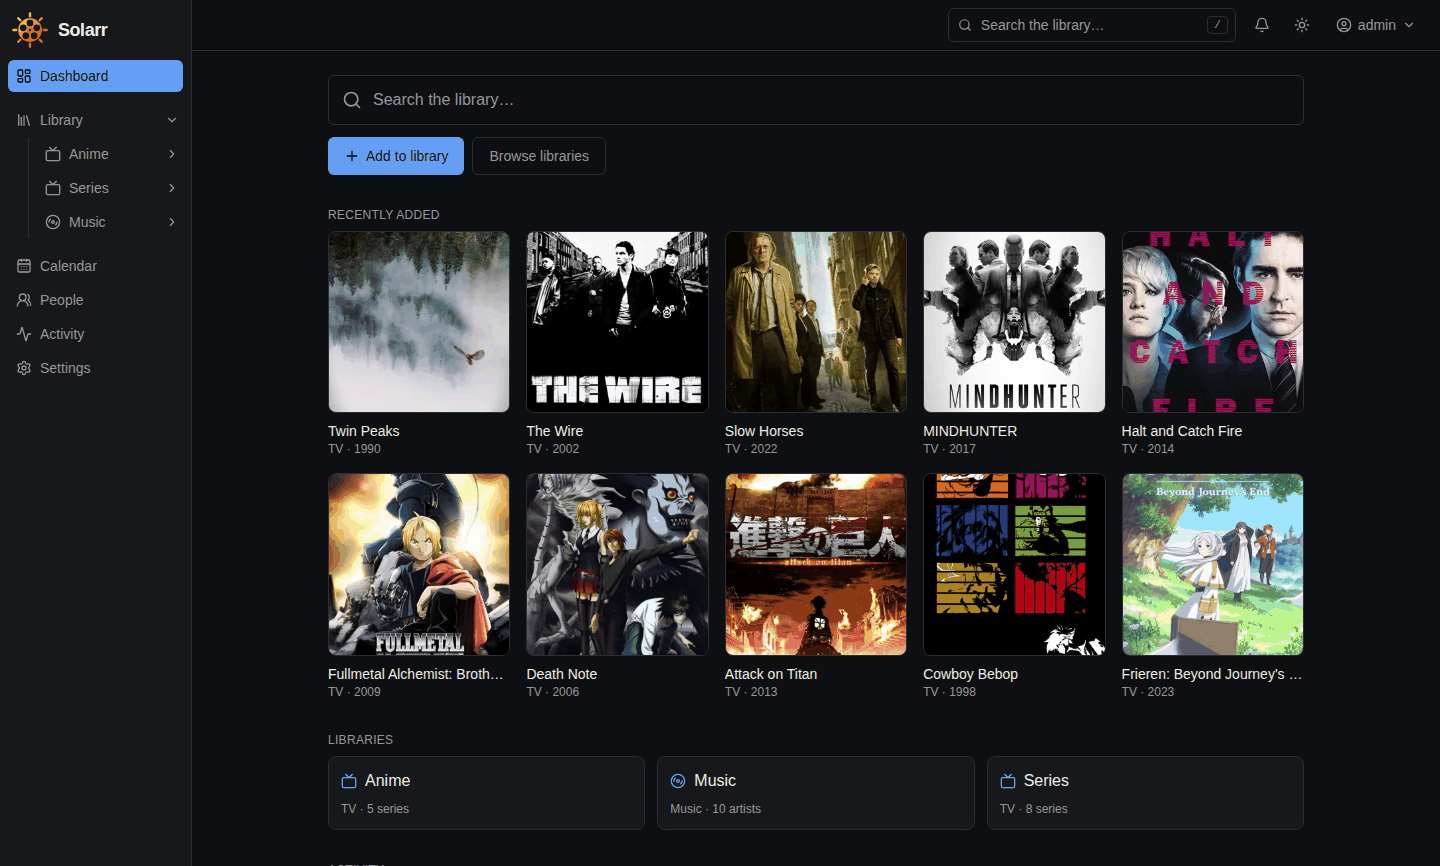
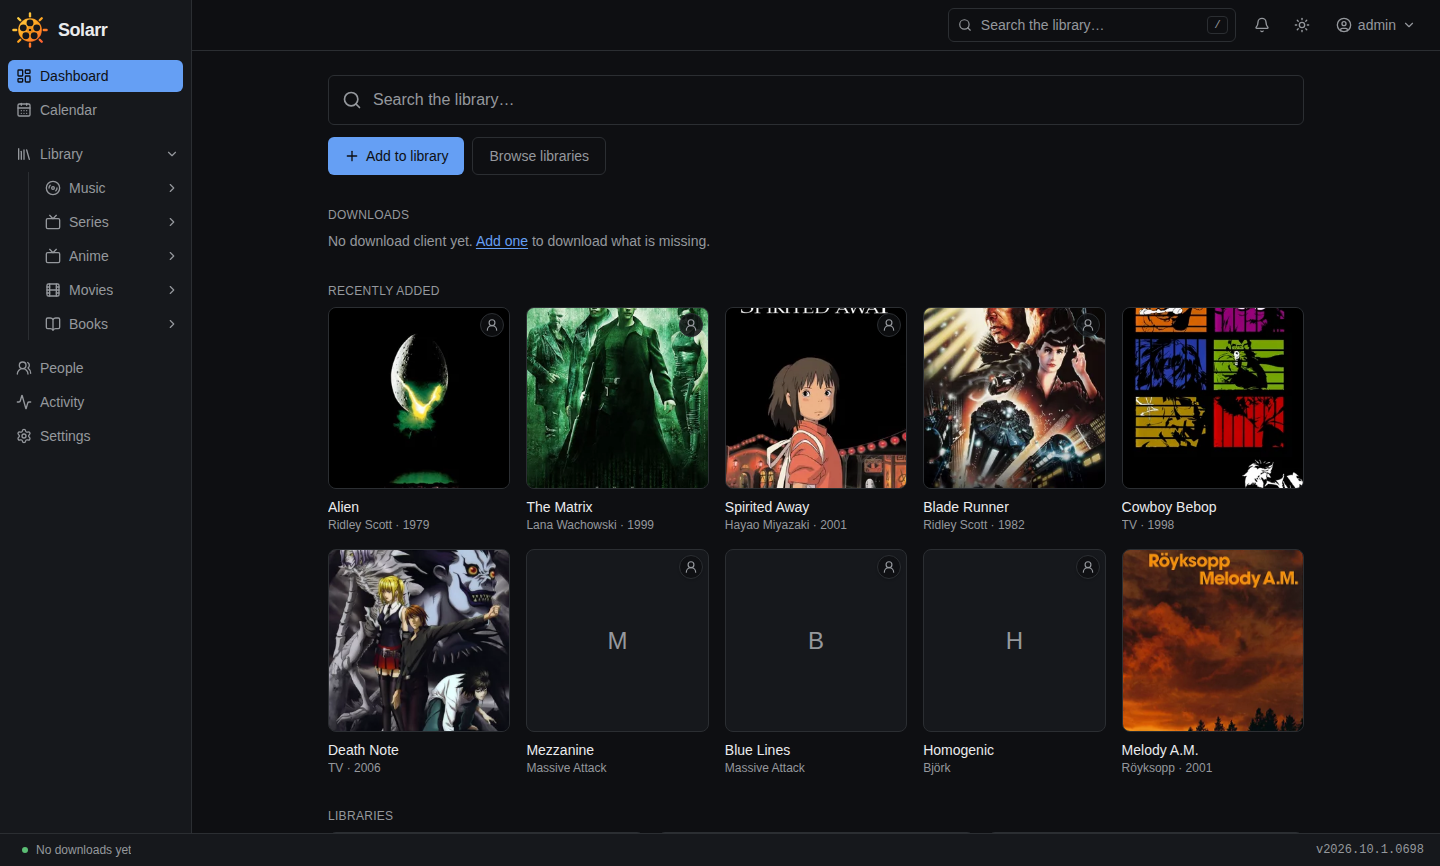
README: opening summary, what is new since the first release, fresh screenshots
An opening paragraph on speed and usability (4 ms pages, 17 ms search, priority
queue ahead of bulk work). A new-since-2026.10.001.515 section covers books and
audiobooks, import lists, *Arr import by choice, library merge, the player, the
similar-videos report, more clients, per-library music providers, hardening.
The feature table and the not-there-yet list no longer say books come later.
Screenshots re-shot from a throwaway demo instance with placeholder files (music,
series, anime, films, books); artist, calendar, statistics and import preview are
kept from the earlier set.

diff --git a/README.md b/README.md
@@ -6,7 +6,18 @@
 One self-hosted app that finds out what you have, what's missing and what could be better, then goes and gets it.<br>
 Music, TV, anime, movies, books and audiobooks in one engine: a successor to Lidarr, Sonarr, Radarr and Readarr, not a port of them.</p>
 
-<p align="center"><img src="documentation/screenshots/dashboard.png" alt="The dashboard: recently added series and the libraries" width="900"></p>
+<p align="center"><img src="documentation/screenshots/dashboard.png" alt="The dashboard: recently added films, series and albums, and the libraries" width="900"></p>
+
+---
+
+**Solarr** is a Go-native media management, discovery and acquisition platform, built for speed and for
+people who would rather not read a manual. One static Go binary and four small SQLite databases keep the web
+interface fast whatever the size of the library: a filtered page of a 500,000-file library comes back in
+**under 4 ms** and search-as-you-type in **17 ms** (worst case, measured; [benchmarks](documentation/benchmarks.md)).
+Every database has one writer behind a priority queue in WAL mode, so **your click jumps ahead of a bulk scan**
+and the browser never stalls while Solarr works. Your views, filters and sorts are remembered, settings are shown
+at your own level (normal, advanced or expert), every decision keeps its reasons on the page, and anything
+irreversible is **previewed first and undone in one click**.
 
 ---
 
@@ -41,18 +52,63 @@ you expected and what happened (logs help: *Settings → Logs*). Every report ma
 - **Private by default.** No telemetry, no accounts, no phone-home. It talks to what you configure.
 - **One small container.** A Go binary with SQLite inside. No database server, no message broker.
 
+## New since the first release
+
+Added after 2026.10.001.515 (2026-10-25), newest areas first. Details are in the
+[documentation](documentation/README.md); the commit log has the rest.
+
+- **Books and audiobooks are real libraries.** Metadata from Open Library, Google Books, Hardcover, FantLab, iTunes
+  and Audible (with Audnexus), covers, one collection per series and the books a series still lacks, **Monitor** on
+  a whole series, **follow an author** as Readarr does, and a **Narrators** level, filter and column for
+  audiobooks. Ebooks are never handed to ffprobe.
+- **An adult library type** (optional), over the stash-box providers, ThePornDB and Whisparr's metadata: scenes and
+  films, performers, and a StashDB favourites import list. See [adult](documentation/adult.md).
+- **Import lists for TV.** An AniList season or user list, a TMDB list or TMDB's trending and popular shows add
+  series for you, **previewed before you enable them**, with *Run now* and a periodic sync.
+  See [import lists](documentation/import-lists.md).
+- **Import from the \*Arrs by choice.** A preview and mapping step first, then pick what to bring across; Whisparr
+  is a source too, and monitoring can be **sent back** to the \*Arr. Still never changes your \*Arr otherwise.
+- **Merge one library into another** of the same media type, previewed like a move.
+- **A preview player in the browser.** A bar, a corner window or full screen, source bitrate shown, a quality menu
+  (original, 1080p, 720p, 480p) and **GPU transcoding** for files a browser cannot play.
+  See [media player](documentation/media-player.md).
+- **Similar videos report.** Perceptual hashes of the frames (plus duration) find the same video in two files;
+  keep one and **link or recycle the others**, offered only when every file names the same episode.
+- **More download clients and indexers.** Every kind of client Lidarr and Sonarr offer on one shared base,
+  **Soulseek through slskd** as a source for any media type, and **Prowlarr's catalog** to choose indexers from.
+- **Per-library music provider order**, like TV and movies already had, and **label, network and organisation
+  logos** from Wikidata and Skyhook.
+- **People and collections editable by hand**, a collection you can Monitor, and *Also known for* on a person
+  (an actor's albums, with *Add to Solarr*). A provider's collection you deleted stays deleted.
+- **TV details**: episode titles in the library's profile languages, *Episode Title Required* with a rename once
+  the title arrives, air moments on the calendar, and a franchise watch task.
+- **Cache and memory page** (*Settings → Cache*): library page cache size, database file sizes, cache use and hit
+  ratios, and a card to size the database memory.
+- **Statistics** count the files **below each library's cutoff**, even in libraries that never upgrade.
+- **Settings by environment variable**: config folder, port, root folders and API keys can be set per variable.
+- **Hardening.** The first-run claim race is closed, cross-site writes are refused, a session cookie is
+  `Secure` behind a trusted TLS proxy, 6to4 and IPv4-compatible addresses are judged by the IPv4 they carry,
+  symlinks in a download are never followed, a torrent whose name is a path never becomes an import path, and
+  a whole download folder is never imported as one download.
+- **Faster.** Bulk edit writes only what changed, album decisions are about 3x faster, release-name parses are
+  remembered, and the queue asks all download clients together, once for every polling page.
+
+---
+
 ## Screenshots
 
 | | |
 |---|---|
-| [![Album wall](documentation/screenshots/music-albums.png)](documentation/screenshots/music-albums.png) **Music library**: albums as a poster wall, with table and overview views, filters and bulk edit | [![Album page](documentation/screenshots/album.png)](documentation/screenshots/album.png) **An album**: tracks with the measured format and size of every file |
-| [![Artist page](documentation/screenshots/artist.png)](documentation/screenshots/artist.png) **An artist**: biography, aliases, the albums you have and the ones still missing | [![Series wall](documentation/screenshots/tv-series.png)](documentation/screenshots/tv-series.png) **TV library**: series with how much of each is on disk |
-| [![Series page](documentation/screenshots/tv-series-page.png)](documentation/screenshots/tv-series-page.png) **A series**: cast and crew, seasons, and per episode the file's resolution, codec and size | [![Series page, light](documentation/screenshots/tv-series-page-light.png)](documentation/screenshots/tv-series-page-light.png) **Light or dark**, following your system |
-| [![Import preview](documentation/screenshots/import-preview.png)](documentation/screenshots/import-preview.png) **Import preview**: an untagged two-album pack, both albums recognised from their tracklists | [![Calendar](documentation/screenshots/calendar.png)](documentation/screenshots/calendar.png) **Calendar**: what you have, what's wanted and out, and what isn't out yet |
-| [![Statistics](documentation/screenshots/statistics.png)](documentation/screenshots/statistics.png) **Insights**: completeness, the biggest albums, formats and growth | |
+| [![Album wall](documentation/screenshots/music-albums.png)](documentation/screenshots/music-albums.png) **Music library**: albums as a poster wall, with table and overview views, filters and bulk edit | [![Album page](documentation/screenshots/album.png)](documentation/screenshots/album.png) **An album**: tracks with the measured format and size of every file, and the ones still to come |
+| [![Series wall](documentation/screenshots/tv-series.png)](documentation/screenshots/tv-series.png) **TV library**: series with how much of each is on disk | [![Series page](documentation/screenshots/tv-series-page.png)](documentation/screenshots/tv-series-page.png) **A series**: cast and crew, collections, seasons, and per episode the file on disk |
+| [![Movie wall](documentation/screenshots/movies.png)](documentation/screenshots/movies.png) **Movies**: posters, editions, collections and franchises | [![Book wall](documentation/screenshots/books.png)](documentation/screenshots/books.png) **Books**: authors, series and covers from Open Library; audiobooks add narrators |
+| [![Import list preview](documentation/screenshots/import-lists.png)](documentation/screenshots/import-lists.png) **Import lists**: an AniList season, previewed before you enable it: what would be added, what is already known | [![Series page, light](documentation/screenshots/tv-series-page-light.png)](documentation/screenshots/tv-series-page-light.png) **Light or dark**, following your system |
+| [![Artist page](documentation/screenshots/artist.png)](documentation/screenshots/artist.png) **An artist**: biography, aliases, the albums you have and the ones still missing | [![Import preview](documentation/screenshots/import-preview.png)](documentation/screenshots/import-preview.png) **Import preview**: an untagged two-album pack, both albums recognised from their tracklists |
+| [![Calendar](documentation/screenshots/calendar.png)](documentation/screenshots/calendar.png) **Calendar**: what you have, what's wanted and out, and what isn't out yet | [![Statistics](documentation/screenshots/statistics.png)](documentation/screenshots/statistics.png) **Insights**: completeness, the biggest albums, formats and growth |
 
 <sub>Screenshots are from a demo instance. Its files are silent or blank placeholders, which is why every
-track is the same FLAC and every episode the same 1080p H.264.</sub>
+track is the same FLAC and every episode the same 720p H.264. Some pages (artist, calendar, insights, import
+preview) are from an earlier demo.</sub>
 
 ---
 
@@ -366,7 +422,8 @@ that advances with every build. See [versioning](documentation/versioning.md).
 
 ## First steps
 
-The full walk-through is the [user guide](documentation/user-guide.md). In short:
+New here? [Getting started](documentation/getting-started.md) takes 15 minutes; the full walk-through is the
+[user guide](documentation/user-guide.md). In short:
 
 1. **Setup wizard:** create the administrator and your first library (a name, a type and a folder).
    Solarr scans it; covers, posters and photos arrive over the next few minutes.
@@ -383,17 +440,18 @@ The full walk-through is the [user guide](documentation/user-guide.md). In short
 
 | | |
 |---|---|
-| **Libraries** | Music, TV, anime and movie libraries, mixed libraries · poster, overview and table views · saved filters · bulk edit · tags with a genre tree · rating limits · calendar with a subscribable link |
+| **Libraries** | Music, TV, anime, movie, book and audiobook libraries (adult optional), mixed libraries, merge · import lists for TV · poster, overview and table views · saved filters · bulk edit · tags with a genre tree · rating limits · calendar with a subscribable link |
 | **Music** | Artists, albums and editions · labels · aliases and merges · add with monitoring · Navidrome-friendly tags and covers (optional) |
 | **TV and anime** | Series, seasons, episodes, daily shows, absolute numbering, other orderings · cast, crew, networks, follow · crossovers · franchises · Jellyfin/Kodi files (optional) |
 | **Movies** | Add, scan, search, grab, import, rename · editions · collections and franchises · Radarr import |
+| **Books and audiobooks** | Authors, series, narrators · covers · follow an author · several providers per library · Readarr-style monitoring |
 | **Finding** | Newznab/Torznab indexers (Prowlarr works as-is), in parallel · hunting, RSS, upgrade hunting · manual search with scores and reasons · delay profile |
-| **Downloading** | **SABnzbd** and **qBittorrent** · queue, history, held releases, free-space protection · seeding limit per client · failed releases blocklisted and searched again |
-| **Running it** | Web UI · several users · notifications centre · statistics · encrypted secrets · automatic backups · scheduled tasks you can run on demand · YAML settings export |
+| **Downloading** | **SABnzbd**, **qBittorrent**, Soulseek (slskd) and the other clients Lidarr and Sonarr offer · queue, history, held releases, free-space protection · seeding limit per client · failed releases blocklisted and searched again |
+| **Running it** | Web UI · several users · notifications centre · statistics · encrypted secrets · automatic backups · scheduled tasks you can run on demand · YAML settings export · preview player · similar-video report |
 
 **Not there yet:** torrents work end to end but have seen less use than usenet · notifications are
-in-app only (no webhooks or connectors yet) · external import lists (Trakt and others) · matching the
-same audio across formats for duplicates · books, audiobooks and comics come later. Not API-compatible
+in-app only (no webhooks or connectors yet) · import lists for movies, music and books, and Trakt · matching the
+same audio across formats for duplicates · comics come later. Not API-compatible
 with the \*Arrs, on purpose: their data model can't express editions, packs or files shared between
 libraries.
 
@@ -439,7 +497,7 @@ Start at [codebase-map.md](documentation/codebase-map.md) and
 
 ## More
 
-- **Documentation:** [documentation/](documentation/README.md): [user guide](documentation/user-guide.md),
+- **Documentation:** [documentation/](documentation/README.md), sorted into beginner, advanced and expert: [getting started](documentation/getting-started.md), [user guide](documentation/user-guide.md),
   [music identification](documentation/music-identification.md), [TV internals](documentation/tv-internals.md),
   [naming](documentation/naming.md), [downloads](documentation/downloads.md),
   [file management](documentation/file-management.md), [container runtime](documentation/container-runtime.md).
